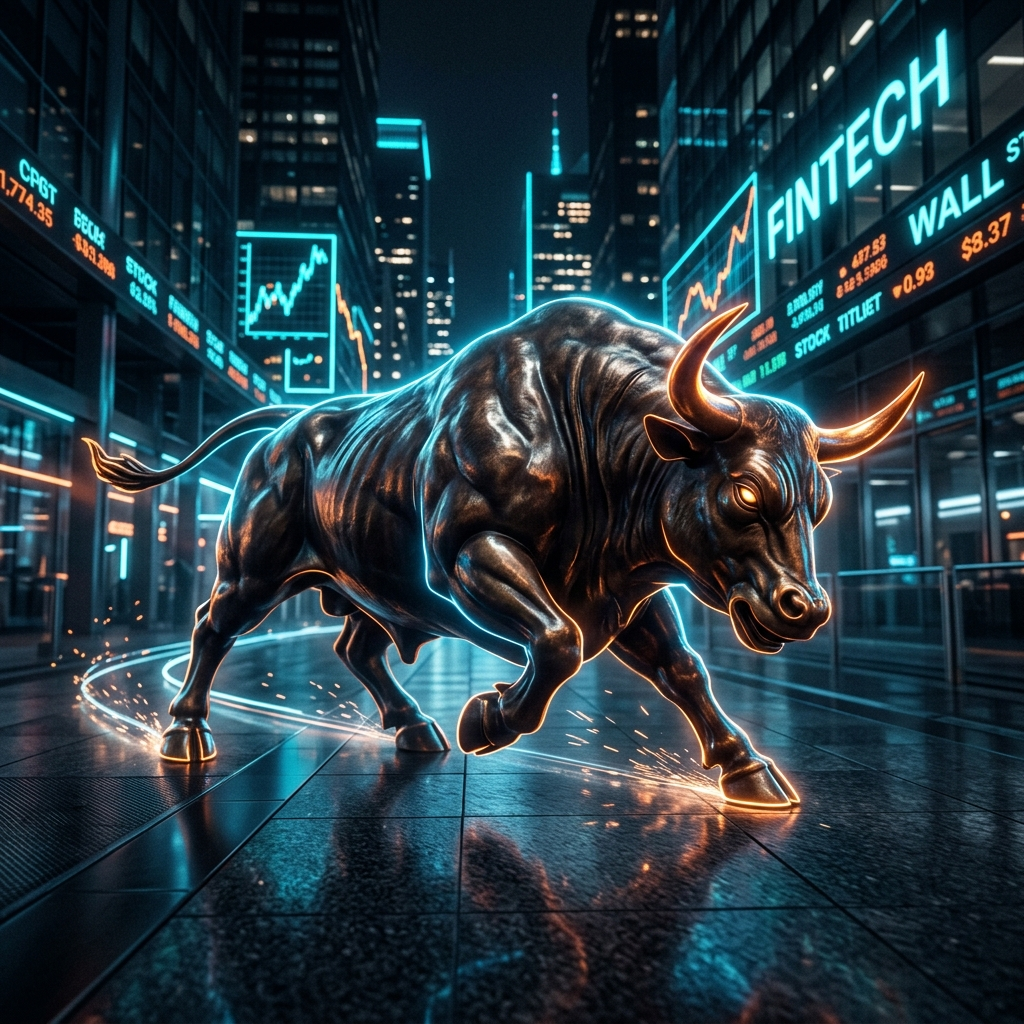
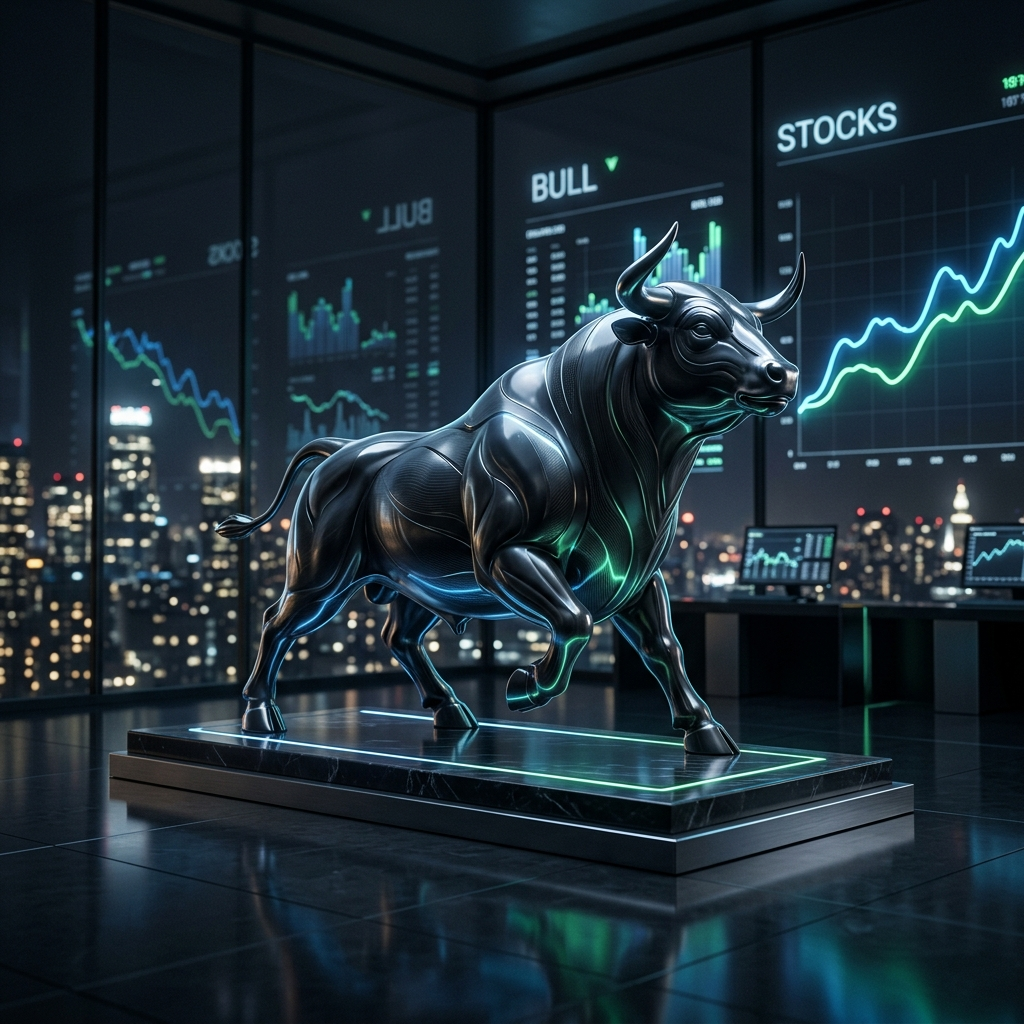
UI Redesign: Glassmorphism, animations, new bull mascot, sleeker charts

diff --git a/src/main/resources/static/dashboard.html b/src/main/resources/static/dashboard.html
@@ -20,17 +20,21 @@
     </nav>
 
     <div class="app-container">
-        <aside class="sidebar">
+        <aside class="sidebar" style="display: flex; flex-direction: column; justify-content: space-between;">
             <ul>
                 <li><a href="dashboard.html" class="active">Dashboard</a></li>
                 <li><a href="calculator.html">Calculator</a></li>
                 <li><a href="history.html">History</a></li>
                 <li><a href="strategy.html">Strategy Analyzer</a></li>
-                <li><a href="profile.html">⚙ Profile Settings</a></li>
+                <li><a href="profile.html">Profile Settings</a></li>
             </ul>
+            <div class="sidebar-bull" style="padding: 1rem; text-align: center; margin-top: auto; opacity: 0.9;">
+                <img src="img/bull.png" alt="Stock Market Bull" style="width: 100%; max-width: 180px; border-radius: 16px; box-shadow: 0 10px 30px rgba(0,0,0,0.5); border: 1px solid rgba(255,255,255,0.05);">
+            </div>
         </aside>
 
-        <main class="main-content" style="padding-top: 0;">
+        <main class="main-content" style="padding-top: 0; position: relative;">
+            <div class="ambient-glow"></div>
             <!-- TradingView Ticker Tape Widget -->
             <div class="tradingview-widget-container" style="margin-bottom: 2rem;">
               <div class="tradingview-widget-container__widget"></div>
@@ -53,38 +57,34 @@
               </script>
             </div>
 
-            <div style="display: flex; justify-content: space-between; align-items: flex-end; margin-bottom: 1.5rem; padding: 0 1rem;">
-                <h2 style="font-size: 2rem; letter-spacing: -0.02em;">Welcome back, <span id="welcome-name" style="color: var(--primary-color);"></span>! 👋</h2>
+            <div style="display: flex; justify-content: space-between; align-items: flex-end; margin-bottom: 1.5rem; padding: 0 1rem; position: relative; z-index: 10;">
+                <h2 style="font-size: 2rem; letter-spacing: -0.02em;">Welcome back, <span id="welcome-name" class="text-gradient"></span></h2>
                 <div style="display: flex; gap: 1rem;">
-                    <a href="calculator.html" class="btn btn-primary" style="text-decoration: none;">➕ New Trade</a>
-                    <a href="strategy.html" class="btn btn-outline" style="text-decoration: none;">🧠 Analyze</a>
+                    <a href="calculator.html" class="btn btn-primary" style="text-decoration: none;">New Trade</a>
+                    <a href="strategy.html" class="btn btn-outline" style="text-decoration: none;">Analyze</a>
                 </div>
             </div>
             
             <div class="stats-grid">
-                <div class="glass-panel stat-card" style="border-top: 4px solid var(--primary-color); position: relative; overflow: hidden;">
-                    <div style="position: absolute; right: -10px; bottom: -20px; font-size: 6rem; opacity: 0.05; pointer-events: none;">🎯</div>
+                <div class="glass-panel stat-card" style="position: relative; overflow: hidden;">
                     <h3 style="margin-bottom: 0.5rem; opacity: 0.8; font-size: 0.95rem;">Win Rate</h3>
                     <div style="display: flex; align-items: baseline; gap: 0.5rem;">
                         <p id="stat-winrate" style="font-size: 2.2rem; font-weight: 700; margin: 0;">0%</p>
                         <span id="stat-calcs" style="font-size: 0.9rem; opacity: 0.6;">(0 trades)</span>
                     </div>
-                    <div style="width: 100%; background: rgba(255,255,255,0.1); height: 6px; border-radius: 3px; margin-top: 1rem; overflow: hidden;">
-                        <div id="winrate-bar" style="height: 100%; background: var(--primary-color); width: 0%; transition: width 1s ease-in-out;"></div>
+                    <div style="width: 100%; background: rgba(255,255,255,0.05); height: 6px; border-radius: 3px; margin-top: 1rem; overflow: hidden;">
+                        <div id="winrate-bar" style="height: 100%; background: linear-gradient(90deg, var(--primary-color), #60a5fa); width: 0%; transition: width 1s ease-in-out;"></div>
                     </div>
                 </div>
-                <div class="glass-panel stat-card" style="border-top: 4px solid var(--accent-color); position: relative; overflow: hidden;">
-                    <div style="position: absolute; right: 0; bottom: -10px; font-size: 5rem; opacity: 0.05; pointer-events: none;">📈</div>
+                <div class="glass-panel stat-card" style="position: relative; overflow: hidden;">
                     <h3 style="margin-bottom: 0.5rem; opacity: 0.8; font-size: 0.95rem;">Total Profit</h3>
-                    <p id="stat-profit" style="font-size: 2.2rem; font-weight: 700; color: var(--accent-color); margin: 0;">₹0.00</p>
+                    <p id="stat-profit" style="font-size: 2.2rem; font-weight: 700; color: #34d399; margin: 0; text-shadow: 0 0 10px rgba(52,211,153,0.3);">₹0.00</p>
                 </div>
-                <div class="glass-panel stat-card" style="border-top: 4px solid var(--danger-color); position: relative; overflow: hidden;">
-                    <div style="position: absolute; right: 0; bottom: -10px; font-size: 5rem; opacity: 0.05; pointer-events: none;">📉</div>
+                <div class="glass-panel stat-card" style="position: relative; overflow: hidden;">
                     <h3 style="margin-bottom: 0.5rem; opacity: 0.8; font-size: 0.95rem;">Total Loss</h3>
-                    <p id="stat-loss" style="font-size: 2.2rem; font-weight: 700; color: var(--danger-color); margin: 0;">₹0.00</p>
+                    <p id="stat-loss" style="font-size: 2.2rem; font-weight: 700; color: #fb7185; margin: 0; text-shadow: 0 0 10px rgba(251,113,133,0.3);">₹0.00</p>
                 </div>
-                <div class="glass-panel stat-card" style="border-top: 4px solid #a855f7; position: relative; overflow: hidden;">
-                    <div style="position: absolute; right: 10px; bottom: -10px; font-size: 5rem; opacity: 0.05; pointer-events: none;">🏆</div>
+                <div class="glass-panel stat-card" style="position: relative; overflow: hidden;">
                     <h3 style="margin-bottom: 0.5rem; opacity: 0.8; font-size: 0.95rem;">Top Stock</h3>
                     <p id="stat-top-stock" style="font-size: 2.2rem; font-weight: 700; margin: 0;">N/A</p>
                     <p id="stat-top-profit" style="color: var(--accent-color); font-weight: 600; margin-top: 0.25rem; font-size: 0.9rem;"></p>

diff --git a/src/main/resources/static/strategy.html b/src/main/resources/static/strategy.html
@@ -18,14 +18,17 @@
     </nav>
 
     <div class="app-container">
-        <aside class="sidebar">
+        <aside class="sidebar" style="display: flex; flex-direction: column; justify-content: space-between;">
             <ul>
                 <li><a href="dashboard.html">Dashboard</a></li>
                 <li><a href="calculator.html">Calculator</a></li>
                 <li><a href="history.html">History</a></li>
                 <li><a href="strategy.html" class="active">Strategy Analyzer</a></li>
-                <li><a href="profile.html">⚙ Profile Settings</a></li>
+                <li><a href="profile.html">Profile Settings</a></li>
             </ul>
+            <div class="sidebar-bull" style="padding: 1rem; text-align: center; margin-top: auto; opacity: 0.9;">
+                <img src="img/bull.png" alt="Stock Market Bull" style="width: 100%; max-width: 180px; border-radius: 16px; box-shadow: 0 10px 30px rgba(0,0,0,0.5); border: 1px solid rgba(255,255,255,0.05);">
+            </div>
         </aside>
 
         <main class="main-content" style="position: relative; overflow: hidden;">
@@ -33,7 +36,7 @@
             
             <div style="margin-bottom: 2rem;">
                 <h2 style="display: flex; align-items: center; gap: 0.5rem; font-size: 2rem;">
-                    📈 Algorithmic Trading Simulator
+                    Algorithmic Trading Simulator
                 </h2>
                 <p style="color: var(--text-color); opacity: 0.8; font-size: 1.1rem; max-width: 600px;">
                     Backtest strategies against 30 days of real market data to find the maximum possible profit.
@@ -47,8 +50,8 @@
                     
                     <div class="segmented-control">
                         <div class="segment-highlight" id="segment-highlight"></div>
-                        <button id="modeLiveBtn" class="segmented-btn active">🌐 Live Ticker (Pro)</button>
-                        <button id="modeManualBtn" class="segmented-btn">✍ Manual Input</button>
+                        <button id="modeLiveBtn" class="segmented-btn active">Live Ticker (Pro)</button>
+                        <button id="modeManualBtn" class="segmented-btn">Manual Input</button>
                     </div>
 
                     <form id="strategyForm">
@@ -69,27 +72,25 @@
                             </select>
                         </div>
                         
-                        <button type="submit" id="analyzeBtn" class="btn btn-primary" style="width: 100%; font-size: 1.1rem; padding: 1rem;">⚡ Run Analysis</button>
+                        <button type="submit" id="analyzeBtn" class="btn btn-primary" style="width: 100%; font-size: 1.1rem; padding: 1rem;">Run Analysis</button>
                     </form>
                 </div>
                 
                 <!-- Right Side: Placeholder Instructions (Shows initially) -->
                 <div class="glass-panel" style="padding: 2.5rem; border-radius: 20px; display: flex; flex-direction: column; justify-content: center; align-items: center; text-align: center;" id="placeholderSection">
-                    <div style="font-size: 4rem; opacity: 0.5; margin-bottom: 1rem;">🤖</div>
+                    <svg style="width: 64px; height: 64px; color: var(--primary-color); opacity: 0.8; margin-bottom: 1rem;" fill="none" stroke="currentColor" viewBox="0 0 24 24" xmlns="http://www.w3.org/2000/svg"><path stroke-linecap="round" stroke-linejoin="round" stroke-width="1.5" d="M19.428 15.428a2 2 0 00-1.022-.547l-2.387-.477a6 6 0 00-3.86.517l-.318.158a6 6 0 01-3.86.517L6.05 15.21a2 2 0 00-1.806.547M8 4h8l-1 1v5.172a2 2 0 00.586 1.414l5 5c1.26 1.26.367 3.414-1.415 3.414H4.828c-1.782 0-2.674-2.154-1.414-3.414l5-5A2 2 0 009 10.172V5L8 4z"></path></svg>
                     <h3 style="margin-bottom: 1rem; font-size: 1.5rem;">Awaiting Instructions</h3>
                     <p style="opacity: 0.7; max-width: 300px; margin-bottom: 2rem; line-height: 1.6;">
                         Select an algorithm on the left and enter a stock ticker to simulate trading over the last 30 days.
                     </p>
                     <div style="display: grid; grid-template-columns: 1fr 1fr; gap: 1rem; width: 100%; text-align: left;">
-                        <div style="background: rgba(255,255,255,0.03); padding: 1rem; border-radius: 8px; border: 1px solid var(--card-border);">
-                            <div style="font-size: 1.5rem; margin-bottom: 0.5rem;">1⃣</div>
-                            <strong>Single Trade</strong>
-                            <p style="font-size: 0.8rem; opacity: 0.7; margin-top: 0.25rem;">Finds the single best buy/sell day.</p>
+                        <div style="background: rgba(255,255,255,0.03); padding: 1.25rem; border-radius: 12px; border: 1px solid var(--card-border);">
+                            <div style="color: var(--primary-color); font-weight: 700; margin-bottom: 0.5rem; font-size: 1.1rem;">Single Trade</div>
+                            <p style="font-size: 0.85rem; opacity: 0.7; margin: 0; line-height: 1.4;">Finds the single best buy/sell day for maximum net return.</p>
                         </div>
-                        <div style="background: rgba(255,255,255,0.03); padding: 1rem; border-radius: 8px; border: 1px solid var(--card-border);">
-                            <div style="font-size: 1.5rem; margin-bottom: 0.5rem;">♾</div>
-                            <strong>Peak & Valley</strong>
-                            <p style="font-size: 0.8rem; opacity: 0.7; margin-top: 0.25rem;">Captures every upward trend.</p>
+                        <div style="background: rgba(255,255,255,0.03); padding: 1.25rem; border-radius: 12px; border: 1px solid var(--card-border);">
+                            <div style="color: var(--accent-color); font-weight: 700; margin-bottom: 0.5rem; font-size: 1.1rem;">Peak & Valley</div>
+                            <p style="font-size: 0.85rem; opacity: 0.7; margin: 0; line-height: 1.4;">Captures every upward trend across multiple trades.</p>
                         </div>
                     </div>
                 </div>

diff --git a/src/main/resources/static/js/dashboard.js b/src/main/resources/static/js/dashboard.js
@@ -70,7 +70,7 @@ document.addEventListener('DOMContentLoaded', async () => {
 
         // if both are 0, chart looks empty, provide some default visual
         const data = (profit === 0 && loss === 0) ? [1] : [profit, loss];
-        const bgColors = (profit === 0 && loss === 0) ? ['#cbd5e1'] : ['#10b981', '#ef4444'];
+        const bgColors = (profit === 0 && loss === 0) ? ['#cbd5e1'] : ['#34d399', '#fb7185'];
         const labels = (profit === 0 && loss === 0) ? ['No Data'] : ['Profit', 'Loss'];
 
         const isDark = document.documentElement.getAttribute('data-theme') === 'dark';
@@ -83,16 +83,19 @@ document.addEventListener('DOMContentLoaded', async () => {
                 datasets: [{
                     data: data,
                     backgroundColor: bgColors,
-                    borderWidth: 0
+                    borderWidth: 0,
+                    borderRadius: 8,
+                    hoverOffset: 4
                 }]
             },
             options: {
                 responsive: true,
                 maintainAspectRatio: false,
+                cutout: '75%',
                 plugins: {
                     legend: {
                         position: 'bottom',
-                        labels: { color: textColor }
+                        labels: { color: textColor, padding: 20, usePointStyle: true }
                     }
                 }
             }
@@ -110,6 +113,10 @@ document.addEventListener('DOMContentLoaded', async () => {
         // Prepare data: chronological sort might be needed if they were timestamps, but here we just take order of insertion
         const labels = history.map((_, i) => `Trade ${i+1}`);
         const data = history.map(h => h.profit);
+        
+        let gradient = ctx.createLinearGradient(0, 0, 0, 300);
+        gradient.addColorStop(0, 'rgba(59, 130, 246, 0.4)');
+        gradient.addColorStop(1, 'rgba(59, 130, 246, 0.0)');
 
         lineChart = new Chart(ctx, {
             type: 'line',
@@ -119,9 +126,14 @@ document.addEventListener('DOMContentLoaded', async () => {
                     label: 'Profit/Loss (₹)',
                     data: data,
                     borderColor: '#3b82f6',
-                    backgroundColor: 'rgba(59, 130, 246, 0.2)',
+                    backgroundColor: gradient,
+                    borderWidth: 2,
                     fill: true,
-                    tension: 0.4
+                    tension: 0.4,
+                    pointBackgroundColor: '#3b82f6',
+                    pointBorderColor: 'transparent',
+                    pointRadius: 0,
+                    pointHoverRadius: 6
                 }]
             },
             options: {
@@ -130,17 +142,29 @@ document.addEventListener('DOMContentLoaded', async () => {
                 scales: {
                     x: {
                         ticks: { color: textColor },
-                        grid: { color: gridColor }
+                        grid: { display: false }
                     },
                     y: {
                         ticks: { color: textColor },
-                        grid: { color: gridColor }
+                        grid: { color: gridColor, drawBorder: false }
                     }
                 },
                 plugins: {
-                    legend: {
-                        labels: { color: textColor }
+                    legend: { display: false },
+                    tooltip: {
+                        mode: 'index',
+                        intersect: false,
+                        backgroundColor: isDark ? 'rgba(15, 23, 42, 0.9)' : 'rgba(255, 255, 255, 0.9)',
+                        titleColor: textColor,
+                        bodyColor: textColor,
+                        borderColor: gridColor,
+                        borderWidth: 1
                     }
+                },
+                interaction: {
+                    mode: 'nearest',
+                    axis: 'x',
+                    intersect: false
                 }
             }
         });

diff --git a/src/main/resources/static/css/style.css b/src/main/resources/static/css/style.css
@@ -12,16 +12,16 @@
 }
 
 [data-theme="dark"] {
-    --bg-color: #0f172a;
+    --bg-color: #0b1121;
     --text-color: #f8fafc;
-    --card-bg: rgba(30, 41, 59, 0.6);
-    --card-border: rgba(255, 255, 255, 0.1);
+    --card-bg: rgba(17, 24, 39, 0.4);
+    --card-border: rgba(255, 255, 255, 0.05);
     --primary-color: #3b82f6;
     --primary-hover: #60a5fa;
     --accent-color: #10b981;
     --danger-color: #ef4444;
-    --nav-bg: rgba(15, 23, 42, 0.85);
-    --input-bg: rgba(30, 41, 59, 0.9);
+    --nav-bg: rgba(11, 17, 33, 0.7);
+    --input-bg: rgba(17, 24, 39, 0.6);
 }
 
 * {
@@ -44,11 +44,18 @@ body {
 /* Glassmorphism Utilities */
 .glass-panel {
     background: var(--card-bg);
-    backdrop-filter: blur(16px);
-    -webkit-backdrop-filter: blur(16px);
+    backdrop-filter: blur(24px);
+    -webkit-backdrop-filter: blur(24px);
     border: 1px solid var(--card-border);
     border-radius: 16px;
-    box-shadow: 0 4px 30px rgba(0, 0, 0, 0.05);
+    box-shadow: 0 4px 30px rgba(0, 0, 0, 0.1);
+    transition: transform 0.3s ease, box-shadow 0.3s ease, border-color 0.3s ease;
+}
+
+.glass-panel:hover {
+    transform: translateY(-2px);
+    box-shadow: 0 10px 40px rgba(0, 0, 0, 0.2);
+    border-color: rgba(255, 255, 255, 0.1);
 }
 
 /* Typography Enhancements */
@@ -1020,4 +1027,37 @@ table.dataTable.no-footer {
     #logoutBtn {
         display: none;
     }
+}
+
+/* Animations */
+@keyframes fadeInUp {
+    from {
+        opacity: 0;
+        transform: translateY(20px);
+    }
+    to {
+        opacity: 1;
+        transform: translateY(0);
+    }
+}
+
+.main-content > * {
+    animation: fadeInUp 0.6s cubic-bezier(0.16, 1, 0.3, 1) forwards;
+}
+
+.main-content > *:nth-child(1) { animation-delay: 0.1s; opacity: 0; }
+.main-content > *:nth-child(2) { animation-delay: 0.2s; opacity: 0; }
+.main-content > *:nth-child(3) { animation-delay: 0.3s; opacity: 0; }
+.main-content > *:nth-child(4) { animation-delay: 0.4s; opacity: 0; }
+
+.stat-card {
+    border-top: none !important;
+}
+
+.stat-card::before {
+    content: '';
+    position: absolute;
+    top: 0; left: 0; right: 0;
+    height: 1px;
+    background: linear-gradient(90deg, transparent, rgba(255,255,255,0.2), transparent);
 }
